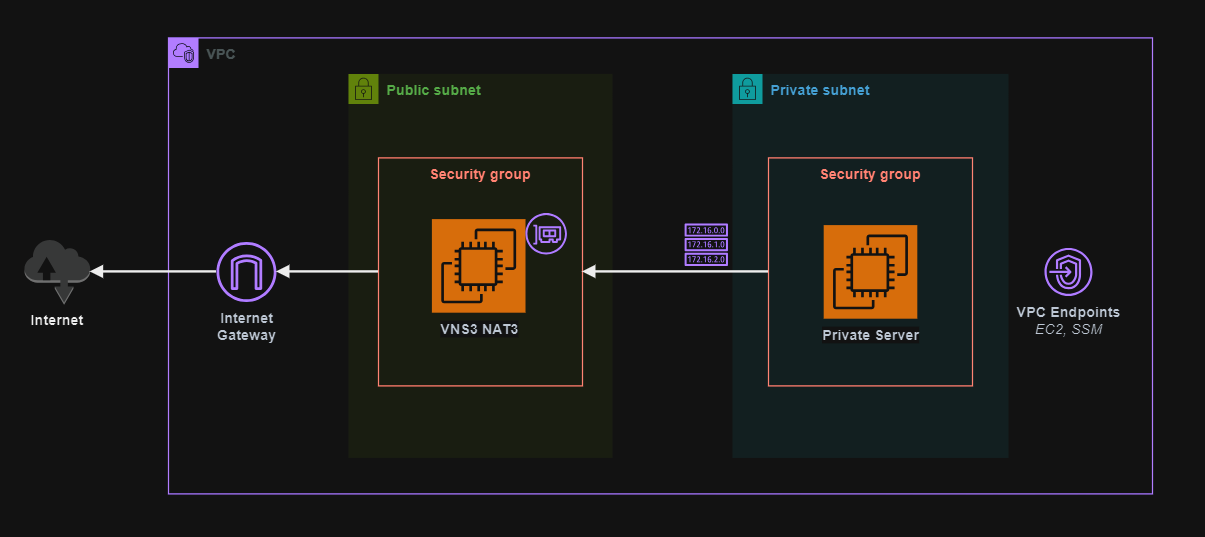
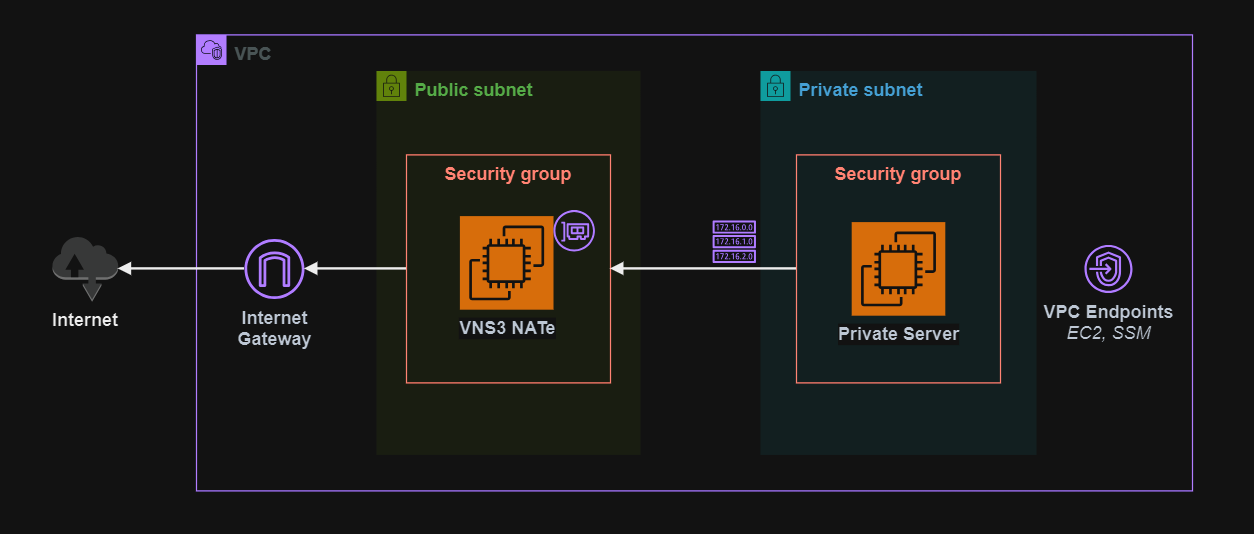
readme

diff --git a/README.md b/README.md
@@ -1,13 +1,12 @@
 # VNS3 NATe
 
-Cohesive Networks VNS3 NATe running on AWS.
-
-> This project is based on `6.1.3-20230925`.
+Terraform implementation of Cohesive Networks [VNS3 NATe][1] running on AWS.
 
 <img src=".assets/vns3.png" />
 
+The image is ready for use in the [AWS Marketplace][2]. A [free option][3] is also available with limited instances and throughput. Additional articles can be found for [getting started][4], [cloud setup][5], and [AWS features][6].
 
-## Setup
+## Deploy
 
 Create a copy to the `.auto.tfvars` template to fine tune your deployment:
 
@@ -21,8 +20,6 @@ Create the SSH key pair to be associated with the VNS3 EC2 instance:
 mkdir keys && ssh-keygen -f keys/vns3
 ```
 
-## Deploy
-
 Create the resources:
 
 ```sh
@@ -30,25 +27,30 @@ terraform init
 terraform apply -auto-approve
 ```
 
-"https://<instance-public-ip>:8000"
+The Web UI administration URL will be part of the output.
+
+Connect to the admin panel:
+
+```
+https://<instance-public-ip>:8000
+```
+
+Credentials
 
 - Username: vnscubed
-- Password: i-000d15ffc5c7d9370
+- Password: The instance ID (E.g.: i-012fsd8a9fsd823cv)
 
 
-## Server
+To test connections from the the private server, use SSM:
 
 ```sh
 aws ssm start-session --target <instance>
 ```
 
 
-https://docs.cohesive.net/docs/nate/
-
-https://aws.amazon.com/marketplace/pp/prodview-wf7yma4f6mdw4
-https://aws.amazon.com/marketplace/pp/prodview-beu27g23xt4ok
-
-https://docs.cohesive.net/tutorials/getting-started/
-https://docs.cohesive.net/docs/cloud-setup/aws/
-
-https://docs.cohesive.net/docs/vns3/aws-features/
+[1]: https://docs.cohesive.net/docs/nate/
+[2]: https://aws.amazon.com/marketplace/pp/prodview-beu27g23xt4ok
+[3]: https://aws.amazon.com/marketplace/pp/prodview-wf7yma4f6mdw4
+[4]: https://docs.cohesive.net/tutorials/getting-started/
+[5]: https://docs.cohesive.net/docs/cloud-setup/aws/
+[6]: https://docs.cohesive.net/docs/vns3/aws-features/
